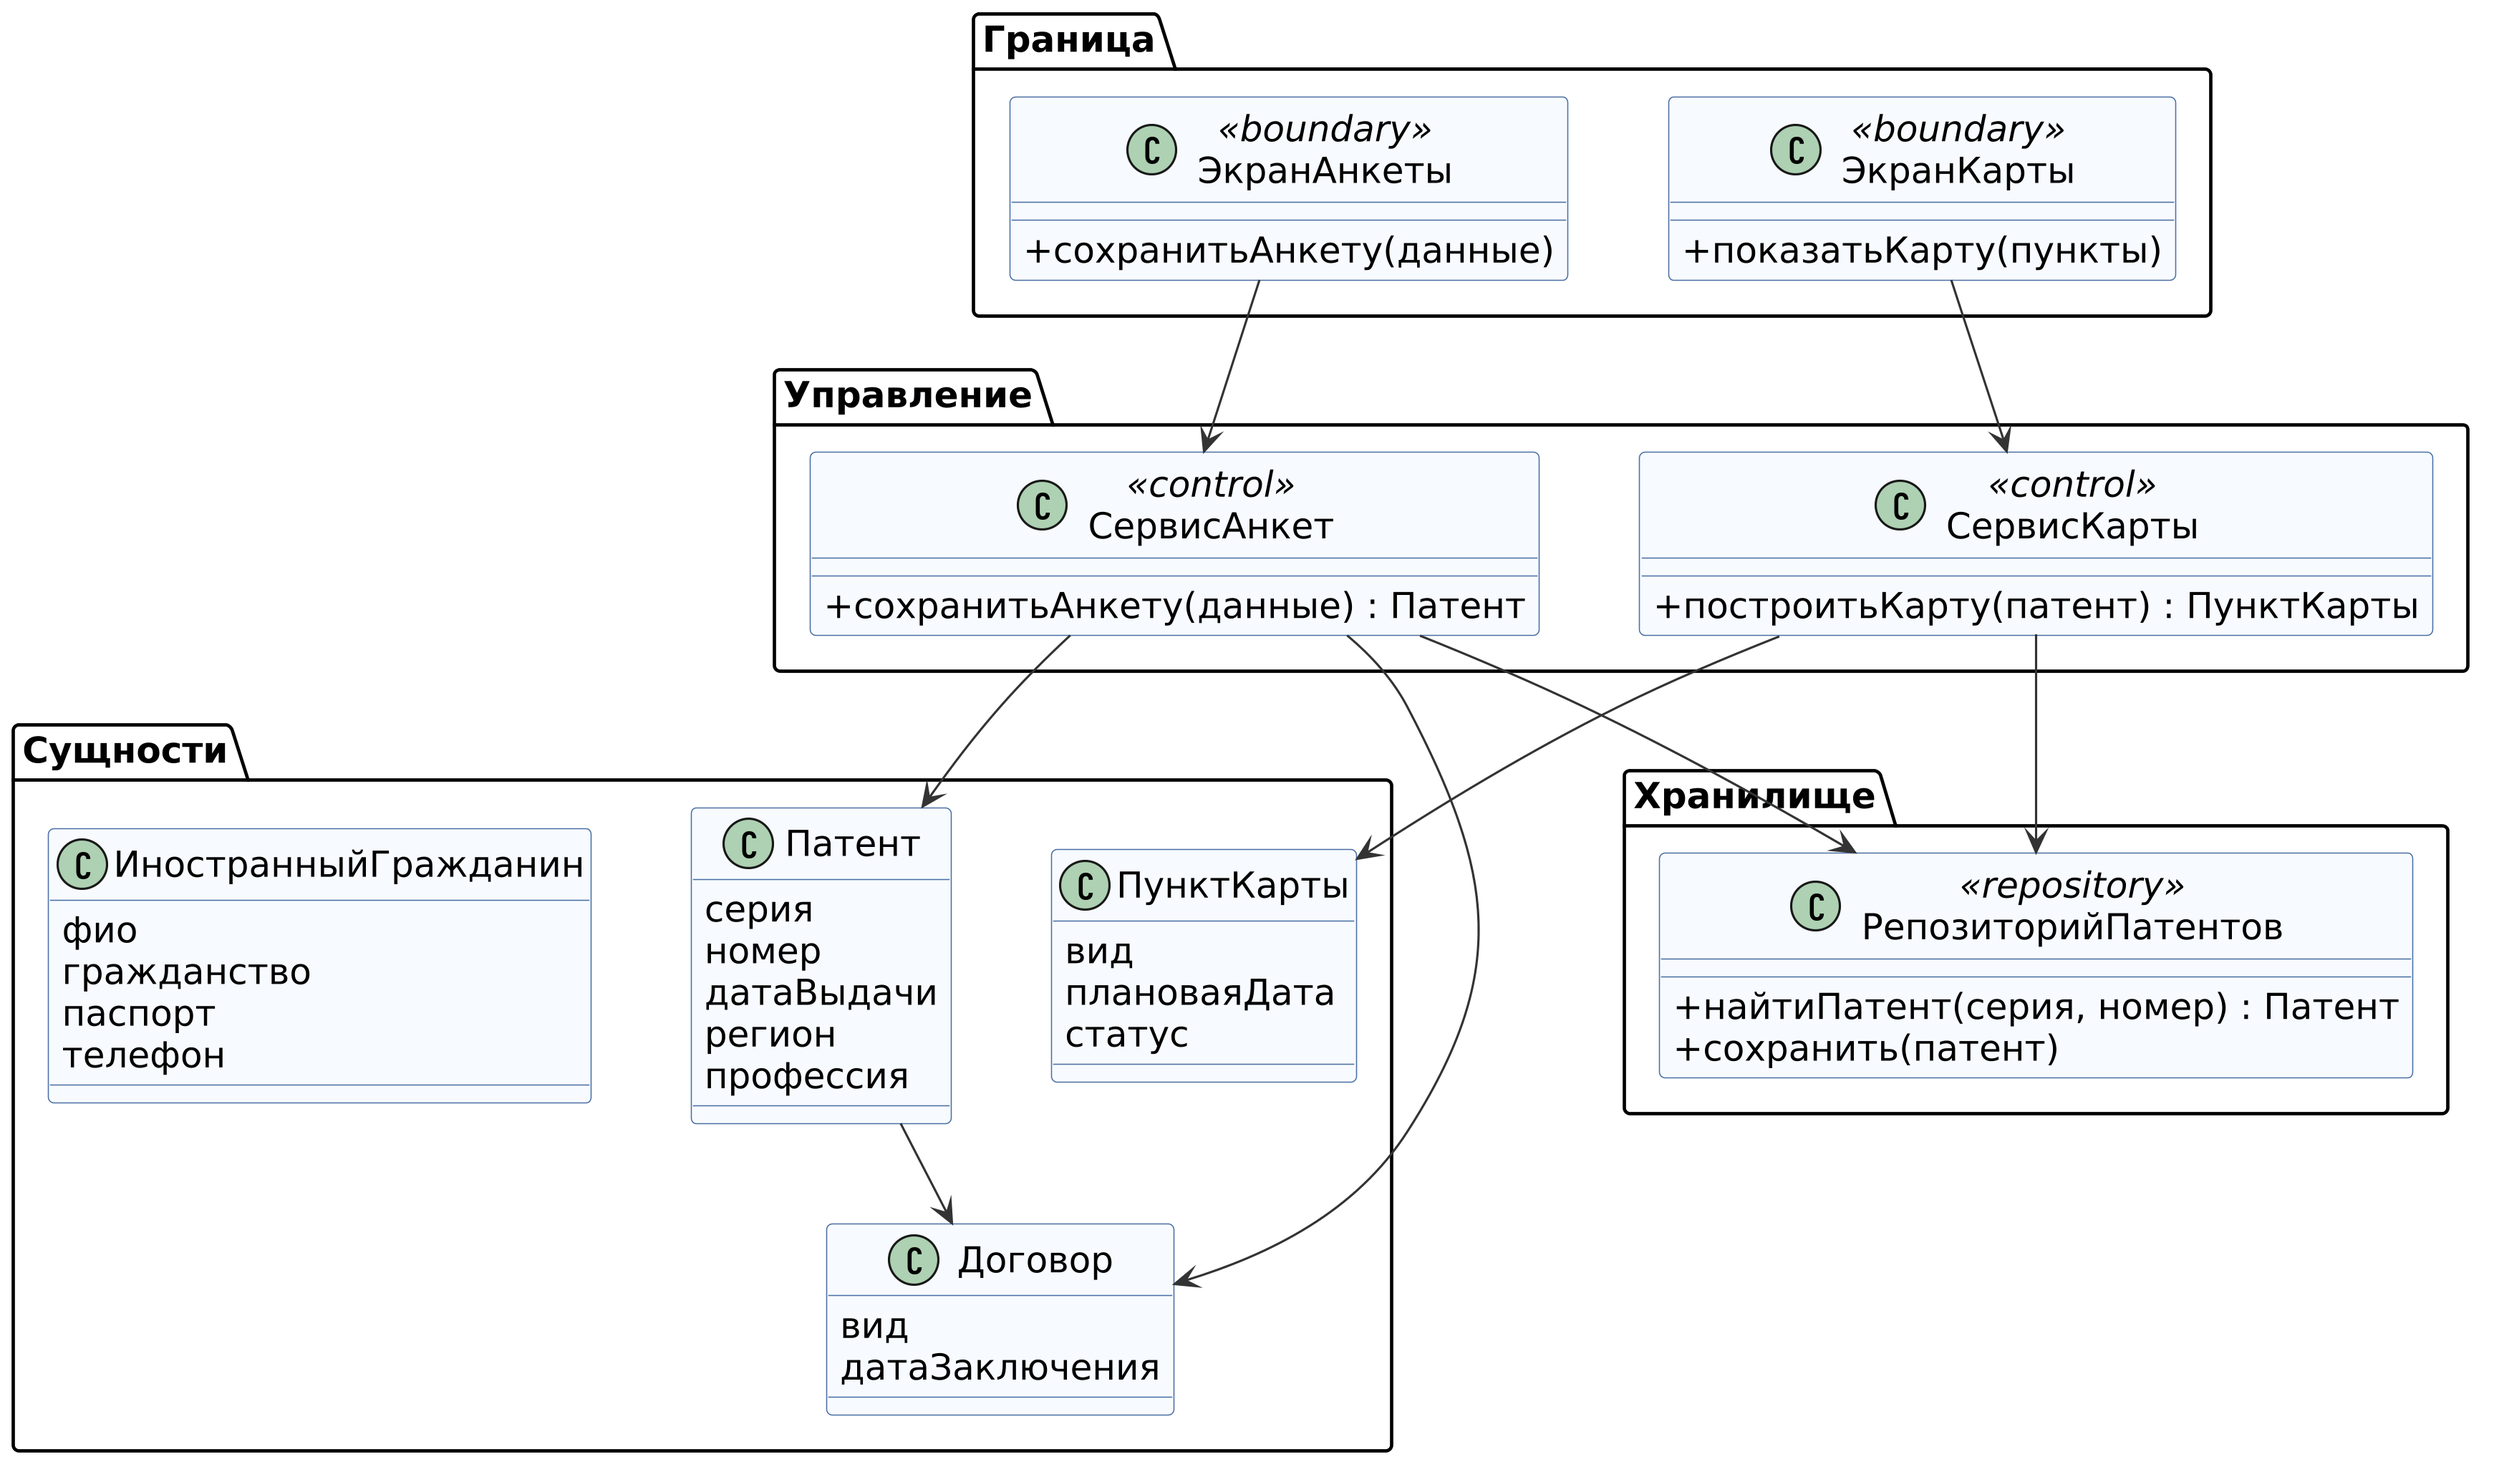
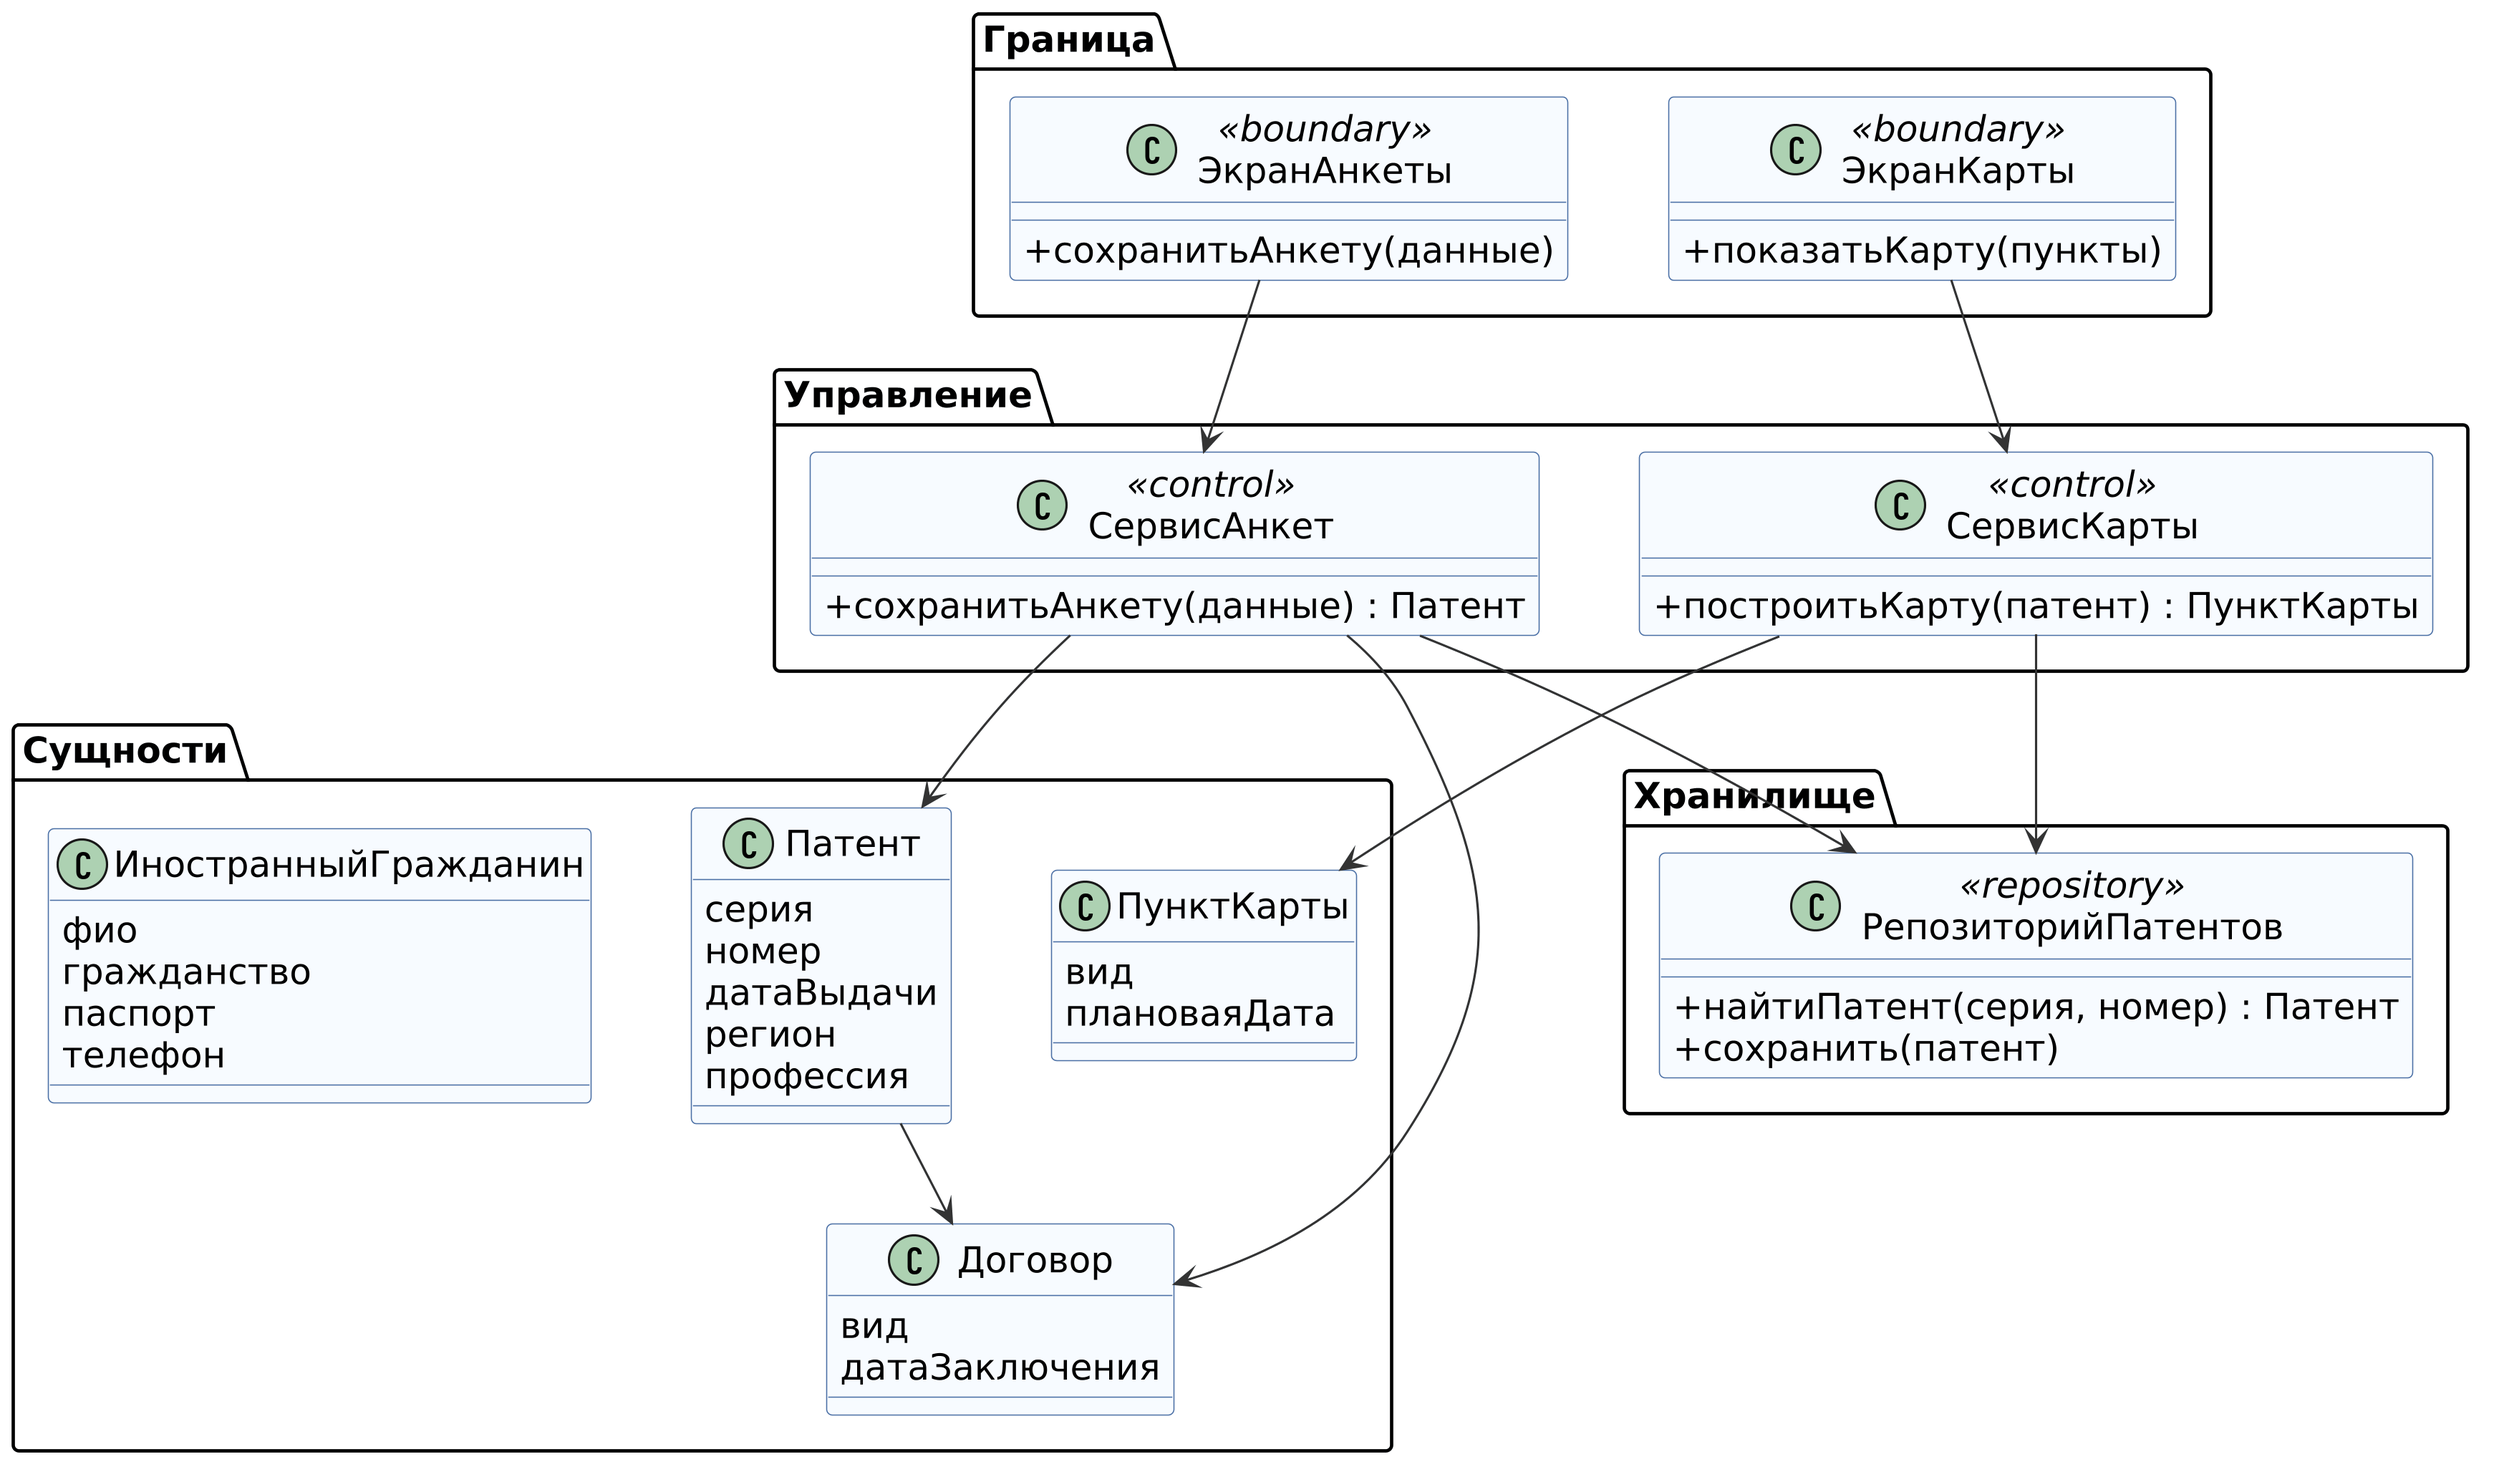
лаб. 1-5: убран дубль строки, статус пункта карты не хранится (согласовано во всех лабах)

Changed region(s): [[0.406, 0.5565, 0.5622, 0.742]]

diff --git a/tsu/5sem/Функциональное моделирование систем/документы/lab1.md b/tsu/5sem/Функциональное моделирование систем/документы/lab1.md
@@ -94,10 +94,9 @@
 | 1 | Запрашивает дорожную карту | |
 | 2 | | Берёт сведения о патенте и договоре из П1 |
 | 3 | | Проверяет по анкете, заключён ли договор и в какую дату |
-| 4 | | Формирует пункт «Трудоустройство». Договора нет: «Вам необходимо трудоустроиться. Срок: до даты выдачи патента + 2 месяца». Договор заключён в срок: «Трудоустройство выполнено: договор от даты заключения из анкеты» |
+| 4 | | Формирует пункт «Трудоустройство». Договора нет: «Вам необходимо трудоустроиться. Срок: до даты выдачи патента + 2 месяца». Договор заключён в срок: «Трудоустройство выполнено: договор от <дата заключения>» |
 | 5 | | Если договор указан, формирует пункт «Уведомление МВД»: «Направить в МВД уведомление с копией договора через Госуслуги или по почте. Срок: до даты выдачи патента + 2 месяца». Договора нет: «Пункт уведомления появится после заключения договора» |
 | 6 | | Показывает карту со сроками и статусами |
-| 5 | | Показывает карту со сроками и статусами |
 
 В основном сценарии сроки ещё не нарушены. Случаи, когда договор заключён позже срока или срок
 уведомления уже прошёл, описаны в альтернативах 2.2, 2.3 и 2.4.

diff --git a/tsu/5sem/Функциональное моделирование систем/документы/lab2.md b/tsu/5sem/Функциональное моделирование систем/документы/lab2.md
@@ -16,7 +16,7 @@
 | Иностранный гражданин | нет | владелец патента; сценарии его собственных данных не требуют |
 | Патент | серия, номер, дата выдачи, регион, профессия | право работать; от даты выдачи считаются сроки |
 | Договор | вид, дата заключения | договор, с которым связан патент; вид: трудовой или ГПХ |
-| Пункт карты | вид, плановая дата, статус | строка дорожной карты: что сделать и до какого срока. Вид: «Трудоустройство» или «Уведомление МВД». Статус вычисляется при показе и не хранится |
+| Пункт карты | вид, плановая дата | строка дорожной карты: что сделать и до какого срока. Вид: «Трудоустройство» или «Уведомление МВД». Статус не хранится, он вычисляется при показе |
 
 Идентификаторы и модификаторы доступа не указываются, методов у классов нет: это этап анализа.
 

diff --git a/tsu/5sem/Функциональное моделирование систем/документы/lab4.md b/tsu/5sem/Функциональное моделирование систем/документы/lab4.md
@@ -42,8 +42,8 @@
 | 1 | ЭкранКарты | СервисКарты | запроситьДорожнуюКарту() |
 | 2 | СервисКарты | РепозиторийПатентов | найтиПатент(серия, номер) |
 | 3 | РепозиторийПатентов | СервисКарты | патент |
-| 4 | СервисКарты | ПунктКарты | создать(«Трудоустройство», плановаяДата, статус) |
-| 5 | СервисКарты | ПунктКарты | создать(«Уведомление МВД», плановаяДата, статус) |
+| 4 | СервисКарты | ПунктКарты | создать(«Трудоустройство», плановаяДата) |
+| 5 | СервисКарты | ПунктКарты | создать(«Уведомление МВД», плановаяДата) |
 | 6 | СервисКарты | Патент | связать с пунктами |
 | 7 | СервисКарты | ЭкранКарты | карта со сроками и статусами |
 

diff --git a/tsu/5sem/Функциональное моделирование систем/документы/lab5.md b/tsu/5sem/Функциональное моделирование систем/документы/lab5.md
@@ -20,7 +20,7 @@
 | Сущность | ИностранныйГражданин | владелец патента |
 | Сущность | Патент | серия, номер, дата выдачи, регион, профессия |
 | Сущность | Договор | вид и дата заключения |
-| Сущность | ПунктКарты | вид, плановая дата, статус |
+| Сущность | ПунктКарты | вид, плановая дата |
 | Хранилище | РепозиторийПатентов | поиск и сохранение патента |
 
 ![Диаграмма классов проектирования](img/design-classes.png)
